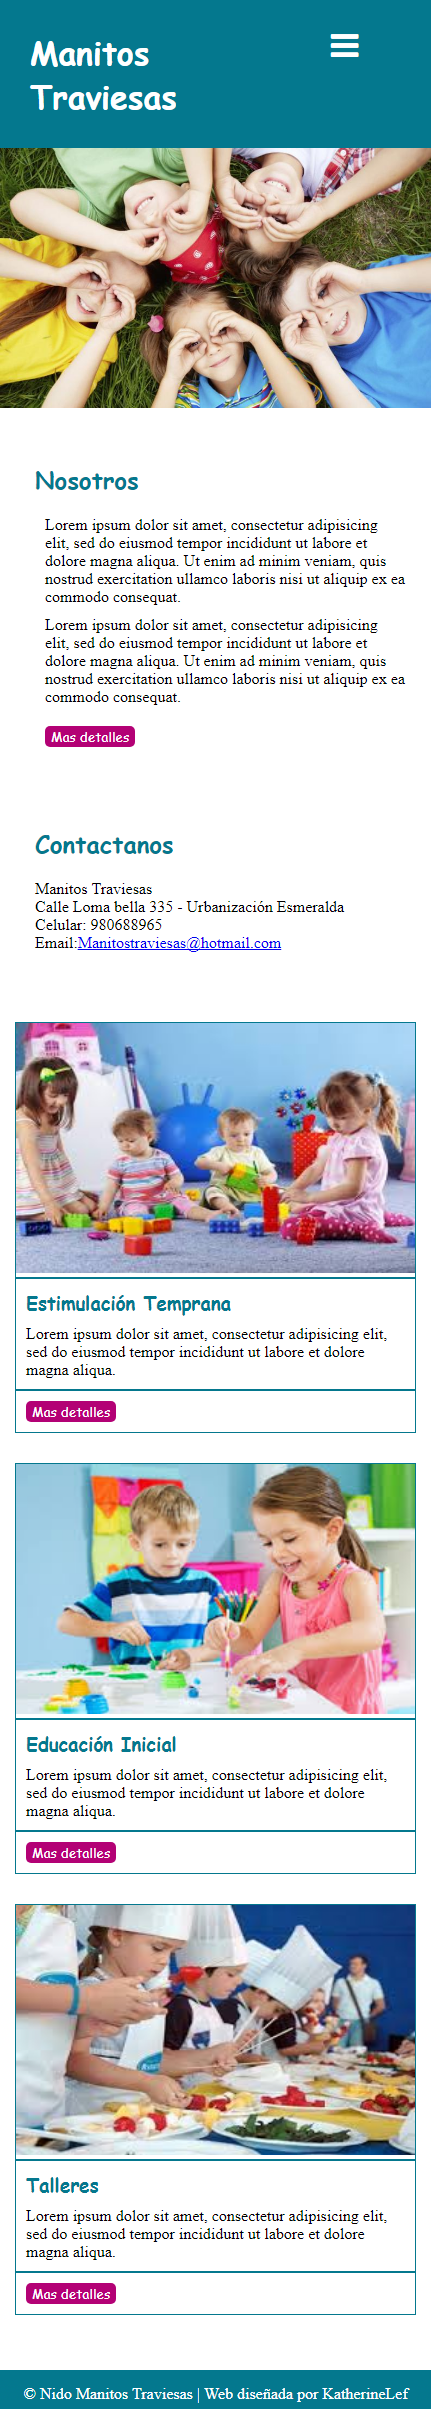
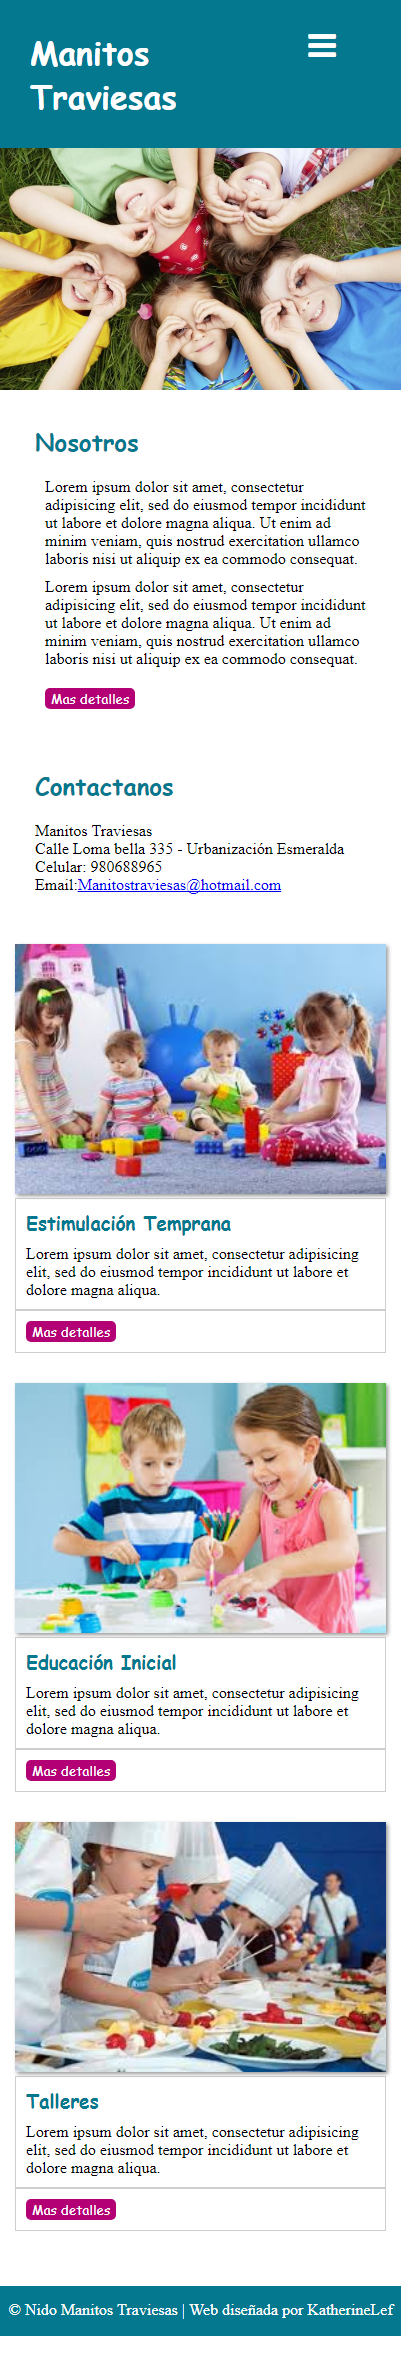
mejorando maquetación

diff --git a/index.html b/index.html
@@ -13,10 +13,10 @@
       <div class="row">
         <header class="col-xs-12 col-md-12">
           <h1 class="col-xs-6 col-md-6">Manitos Traviesas</h1>
-          <div class="col-xs-3 col-xs-offset-3 col-md-6 view-mobile">
+          <div class="view-mobile col-xs-3 col-xs-offset-3 col-md-6">
           <i class="fa fa-bars fa-2x" aria-hidden="true"></i>
           </div>
-          <nav class="col-xs-6 col-md-6 view-desktop">
+          <nav class="view-desktop col-xs-6 col-md-6">
             <ul>
               <li>Inicio</li>
               <li>Nosotros</li>
@@ -28,8 +28,8 @@
       </div>
       <div class="row">
         <section class="img-central">
-          <img class="col-xs-12 view-mobile" src="assets/images/img-1.jpg" alt="niños">
-          <img class="col-md-12 view-desktop" src="assets/images/img-2.png" alt="niños">
+          <img class="view-mobile col-xs-12" src="assets/images/img-1.jpg" alt="niños">
+          <img class="view-desktop col-md-12" src="assets/images/img-2.png" alt="niños">
         </section>
       </div>
       <div class="row">
@@ -53,7 +53,7 @@
       </div>
       <div class="row">
         <section class="servicios">
-          <div class="col-xs-12 col-md-4 services">
+          <div class="services col-xs-12 col-md-4">
             <div class="images">
               <img src="assets/images/img-3.jpg" alt="niños">
             </div>
@@ -65,7 +65,7 @@
               <input type="button" name="button" value="Mas detalles"></input>
             </div>
           </div>
-          <div class="col-xs-12 col-md-4 services">
+          <div class="services col-xs-12 col-md-4">
             <div class="images">
               <img src="assets/images/img-4.jpg" alt="niños">
             </div>
@@ -77,7 +77,7 @@
               <input type="button" name="button" value="Mas detalles"></input>
             </div>
           </div>
-          <div class="col-xs-12 col-md-4 services">
+          <div class="services col-xs-12 col-md-4">
             <div class="images">
               <img src="assets/images/img-5.jpg" alt="niños">
             </div>

diff --git a/css/main.css b/css/main.css
@@ -132,7 +132,6 @@ body {
   .col-md-12 {
     width: 100%;
   }
-
   .col-md-offset-1 {
     margin-left: 8.33333333%;
   }
@@ -180,6 +179,7 @@ body {
   .col-md-offset-12 {
     margin-left: 100%;
   }
+}
 
 /* Estilos a la página*/
 header {
@@ -200,21 +200,21 @@ header ul li {
 }
 
 nav {
-  position: relative;
   left:15%;
+  position: relative;
 }
 
 .img-central {
   margin: 0;
 }
 .img-central img {
-  width: 100%;
-  padding: 0;
   margin: 0;
+  padding: 0;
+  width: 100%;
 }
 
-.Contactanos p {
-  margin: 0;
+.Contactanos p  {
+  margin:0;
 }
 
 .Nosotros , .Contactanos  {
@@ -226,25 +226,22 @@ nav {
   font-family:cursive;
 }
 
-.servicios {
-  background-color: #f0f0f0;
-}
-
 .servicios .images img{
+  box-shadow: 2px 2px 5px #999;
   height: 250px;
   width: 100%;
 }
 
-.services div {
-  border: 1px solid #04788e;
-}
-
-section {
-  margin-top: 40px;
+.descripcion, .button {
+  border: 1px solid #cecece;
 }
 
 .descripcion h3, p{
   margin: 10px;
+}
+
+section {
+  margin-top: 20px;
 }
 
 input {
@@ -258,19 +255,19 @@ input {
 
 .row {
   margin: 0;
-}
 
+}
 footer {
   background-color: #04788e;
   color: white;
   height: 50px;
-  margin-top: 40px;
   text-align: center;
+  margin-top: 40px;
 }
 
 footer p {
-  margin: 0;
   padding-top: 15px;
+  margin: 0;
 }
 
 /* Helpers */
